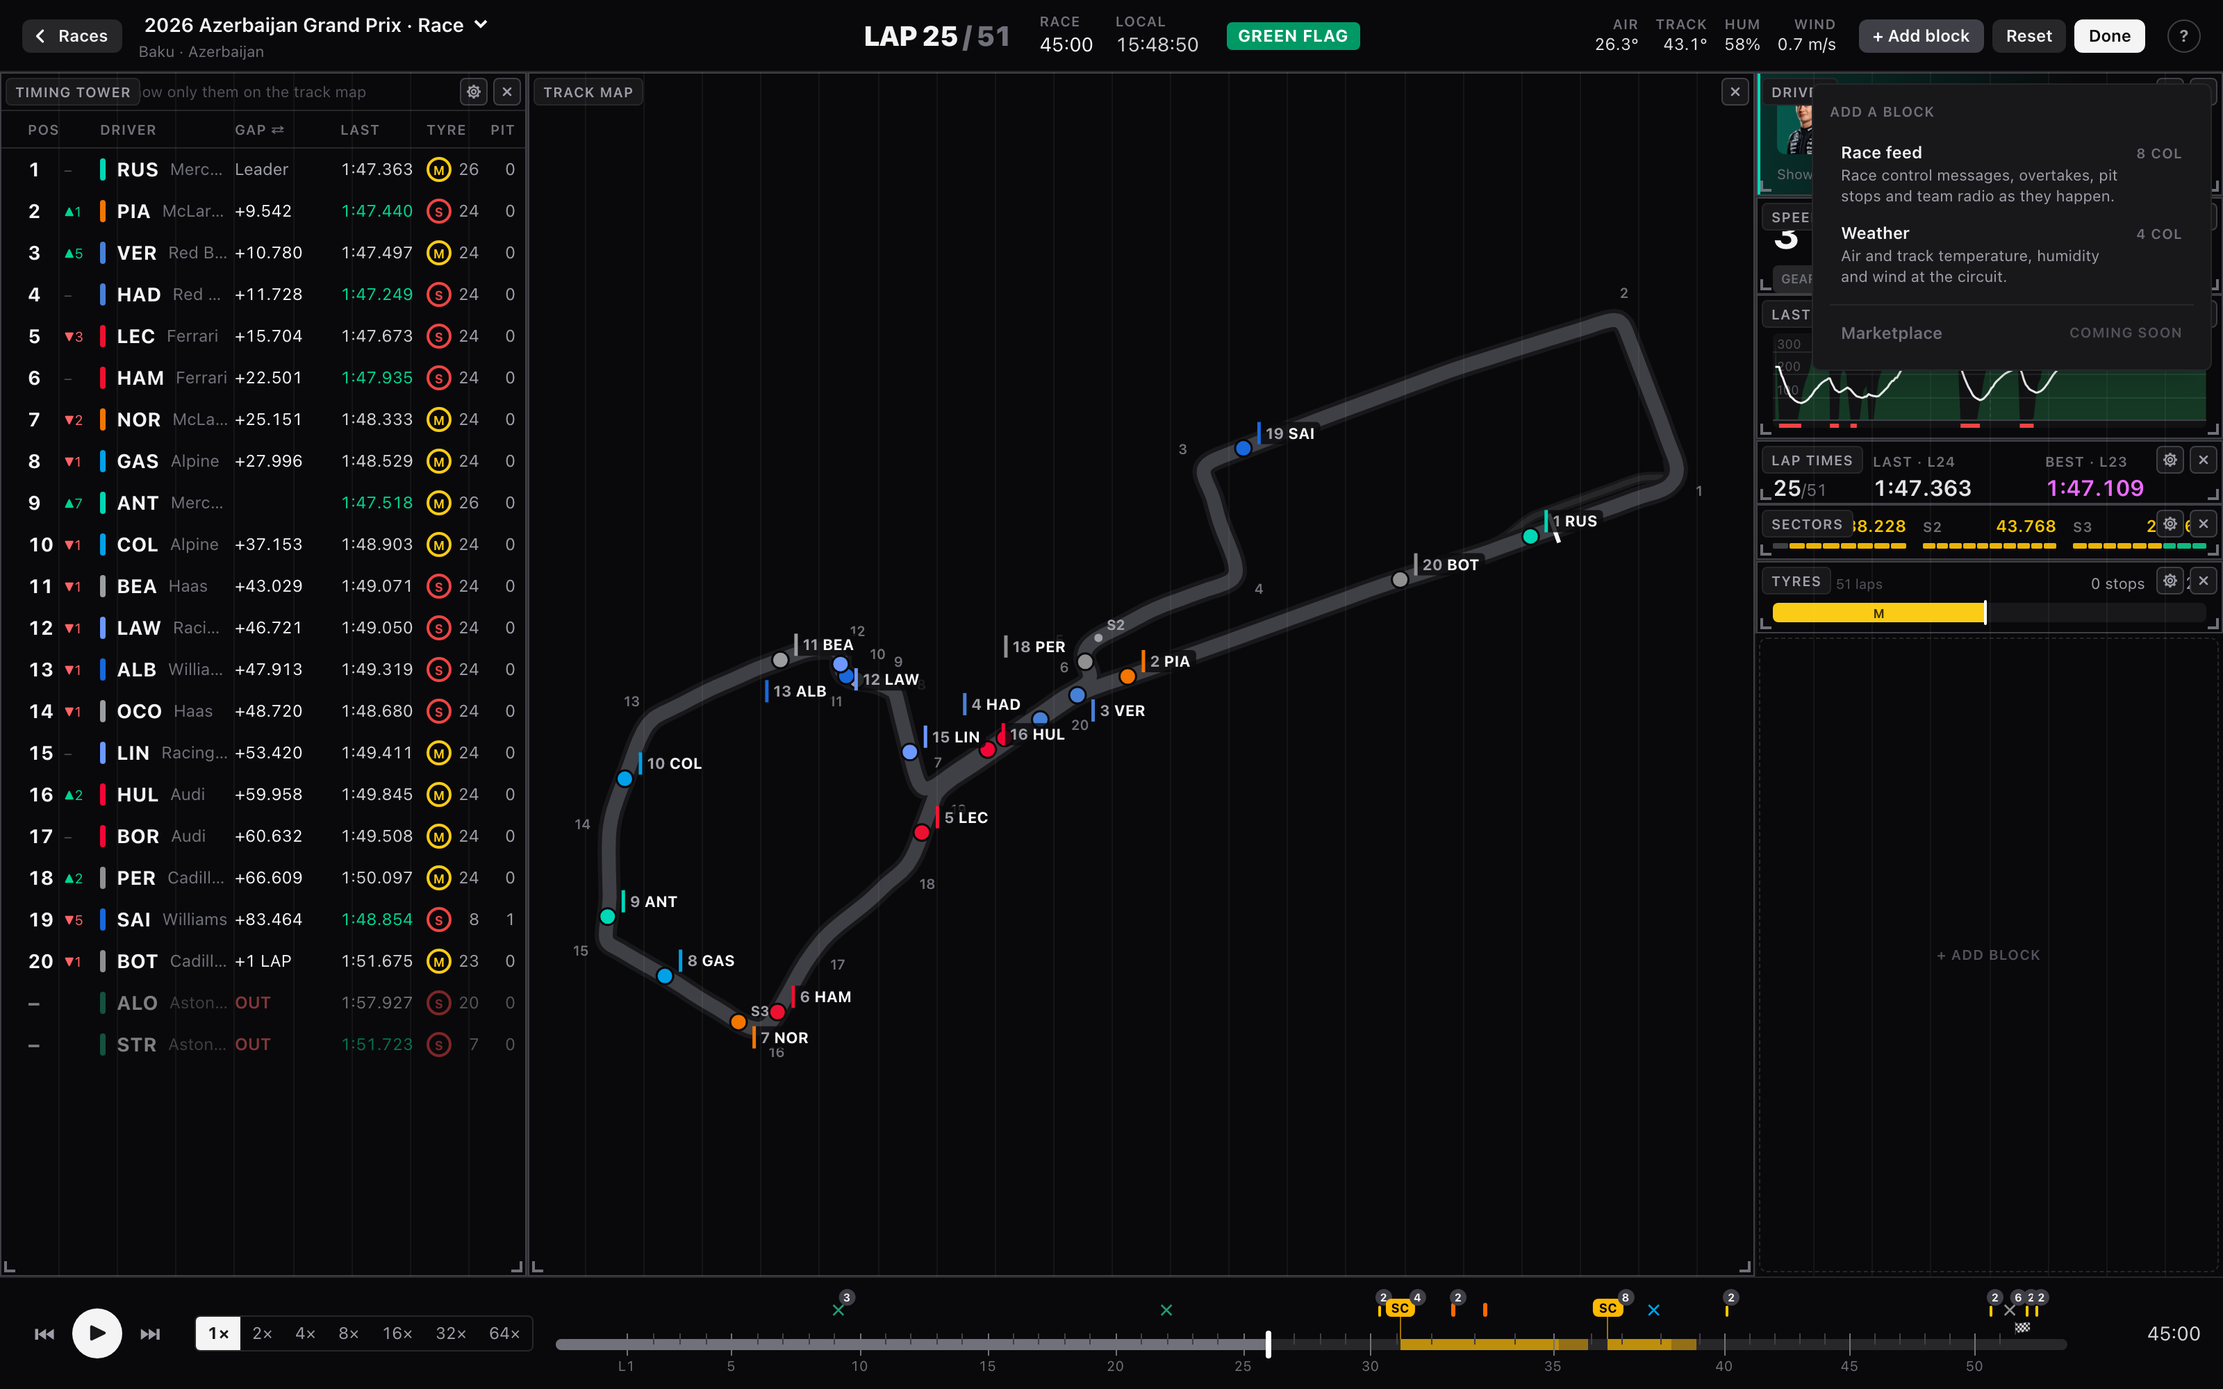
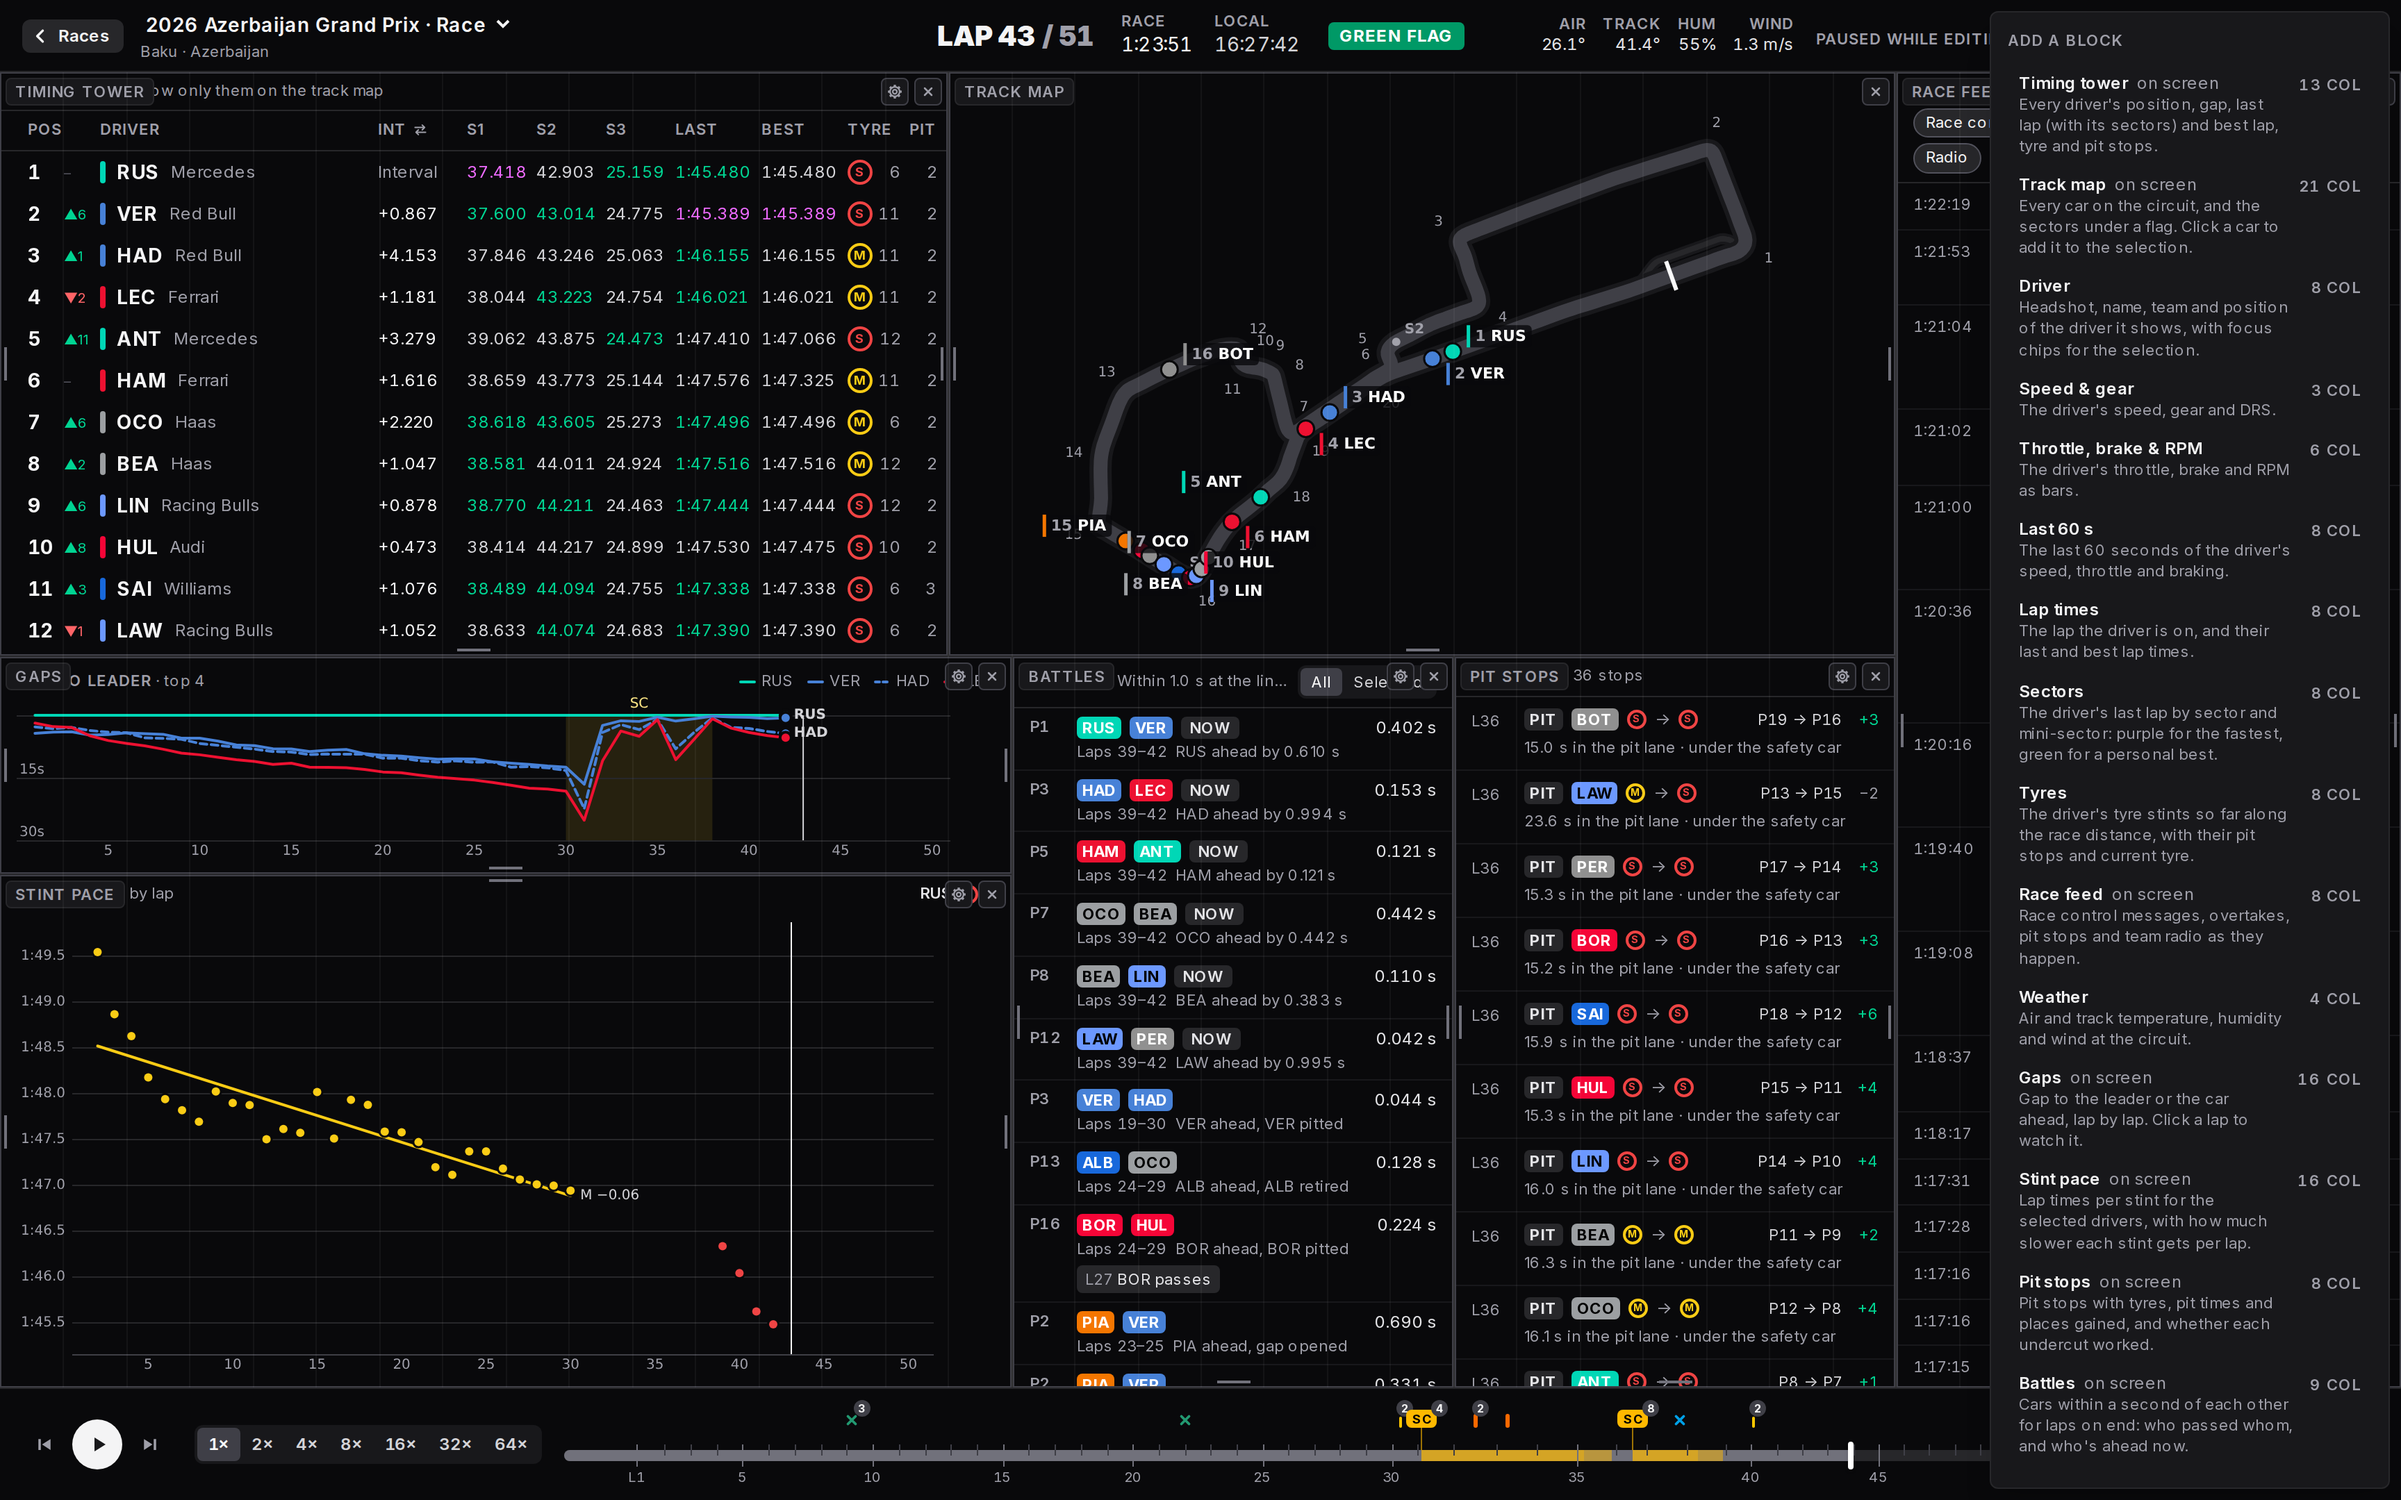
README: replay or follow live on a screen of blocks, how to write a block, new screenshots
The intro says Pitwall replays any session or follows one live, on a
timing screen of blocks you arrange, each reading the race its own way,
and that anyone can write one. A Race analysis bullet covers the gap
chart, stint pace, battles and pit stops. "Modules" is "Blocks".

Write a block: the folder, defineBlock, block-kit's spoiler-free hooks,
builtins.ts and the picker, then bun run lint and bun test src/blocks.
Request a block follows it, for those not writing one.

Screenshots: the race on the new default layout at lap 44 in Baku
(window border trimmed), qualifying and edit mode with the block picker
listing every block, at 1728x1080.

diff --git a/README.md b/README.md
@@ -7,17 +7,20 @@
 
 Replay any F1 race, sprint or qualifying session since 2023. Built on [OpenF1](https://openf1.org) data. Runs entirely in your browser.
 
+Or follow one live. Pitwall is a polished timing screen made of blocks you arrange. Each block reads the race its own way: timing, the track map, telemetry, gaps, stint pace, battles, pit stops and more. Anyone can [write a new one](#write-a-block).
+
 **Try it: [pitwall.plusminushalf.com](https://pitwall.plusminushalf.com)**
 
-![A race replay: timing tower, track map, driver telemetry and the race feed](docs/screenshots/race.png)
+![A race replay: timing tower, track map, race feed, gaps to the leader, stint pace, battles and pit stops](docs/screenshots/race.png)
 
 ## What it does
 
 - **Plays in seconds.** Pick a race and it starts about 5 seconds later. It downloads into your browser while you watch, so next time it opens instantly, even offline.
 - **Tracking.** Every car on the track map, about 4 times a second. Timing, gaps, tyres, pit stops, race control, weather and team radio. All on one timeline. Pause, scrub, or play at up to 64×.
+- **Race analysis.** Gaps to the leader or the car ahead, lap by lap. Lap times per stint, with each stint's trend in seconds per lap. Battles: cars within a second for laps on end, and who passed whom. Pit stops, and whether the undercut worked. Click a lap, a battle or a stop to watch it.
 - **No spoilers.** Watching a race you missed? The timeline shows only what you've watched: safety cars, retirements, penalties and the finish stay hidden until you get there. Pitwall asks when you open a race, or remembers your answer (Settings, on the home page).
 - **Qualifying.** Compare up to 4 laps: speed, delta, throttle, brake and gear. See who is fastest in each mini-sector. Replay the laps as ghosts.
-- **Modules.** The screen is a grid of blocks. Move, resize, add or remove them. Your layout is saved.
+- **Blocks.** The screen is a grid of blocks. Move, resize, add or remove them. Your layout is saved.
 - **Live.** Follow a race as it happens. Needs an OpenF1 account. Local only for now, not yet on the hosted site.
 - **Bring your own credentials.** Connect your own OpenF1 account. Downloads get faster.
 
@@ -40,10 +43,6 @@ Pitwall's code never sees your password. A small vault on a separate site (`pitw
 
 The sponsor tier is a personal subscription. Use your own account. Don't share it.
 
-## Request a module
-
-Want a new module? Missing some data? [Open an issue](https://github.com/plusminushalf/pitwall/issues/new?labels=enhancement). Say what you want to see and why.
-
 ## Run it locally
 
 ```sh
@@ -53,6 +52,23 @@ bun run build    # static site in dist/
 ```
 
 CLI ingest, live mode, the simulator and how it all works: [docs/development.md](docs/development.md).
+
+## Write a block
+
+Have an idea for another way to read a race? Write it as a block and open a PR.
+
+A block is a React component plus a `defineBlock()` call with its name, size and settings. It reads the race through block-kit's hooks: timing, positions, telemetry, laps, stints, pit stops, the race feed and more. The hooks return only what has happened so far in the replay, so a block can't spoil a race by accident.
+
+1. Make a folder in [`src/blocks/`](src/blocks) with an `index.tsx` that exports `defineBlock({ ... })`. [`weather`](src/blocks/weather/index.tsx) is a whole block in about 40 lines.
+2. Pick your hooks. They're all listed in [`src/blockkit/index.ts`](src/blockkit/index.ts).
+3. Add the block to [`src/grid/builtins.ts`](src/grid/builtins.ts). It shows up in the block picker: **Edit layout**, then **+ Add block**.
+4. Run `bun run lint` and `bun test src/blocks`. A block may import only React, `block-kit` and its own files.
+
+For bigger examples, see the analysis blocks: `gap-chart`, `stint-pace`, `battles` and `pit-strategy`. Each keeps its logic in a separate file, with tests next to it.
+
+## Request a block
+
+Not up for writing one? Missing some data? [Open an issue](https://github.com/plusminushalf/pitwall/issues/new?labels=enhancement). Say what you want to see and why.
 
 ## Not a distribution of OpenF1 data
 
